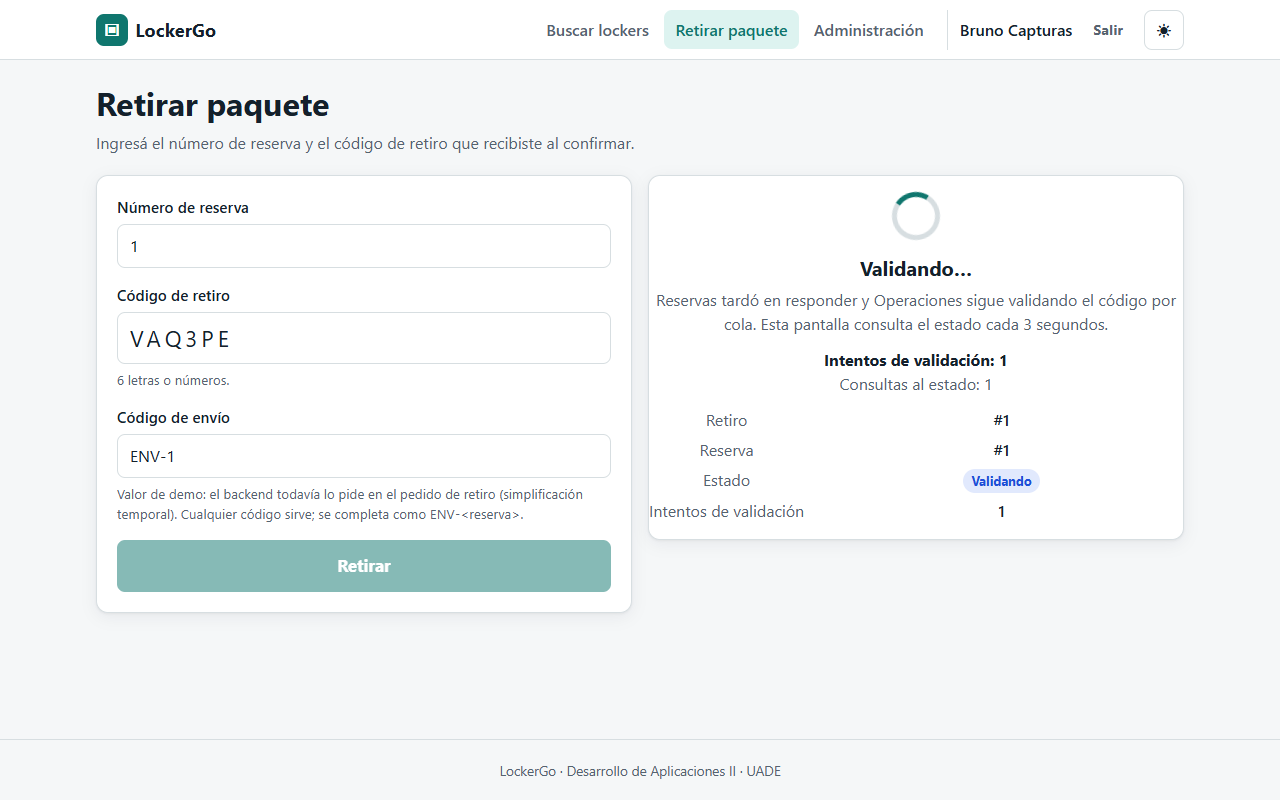
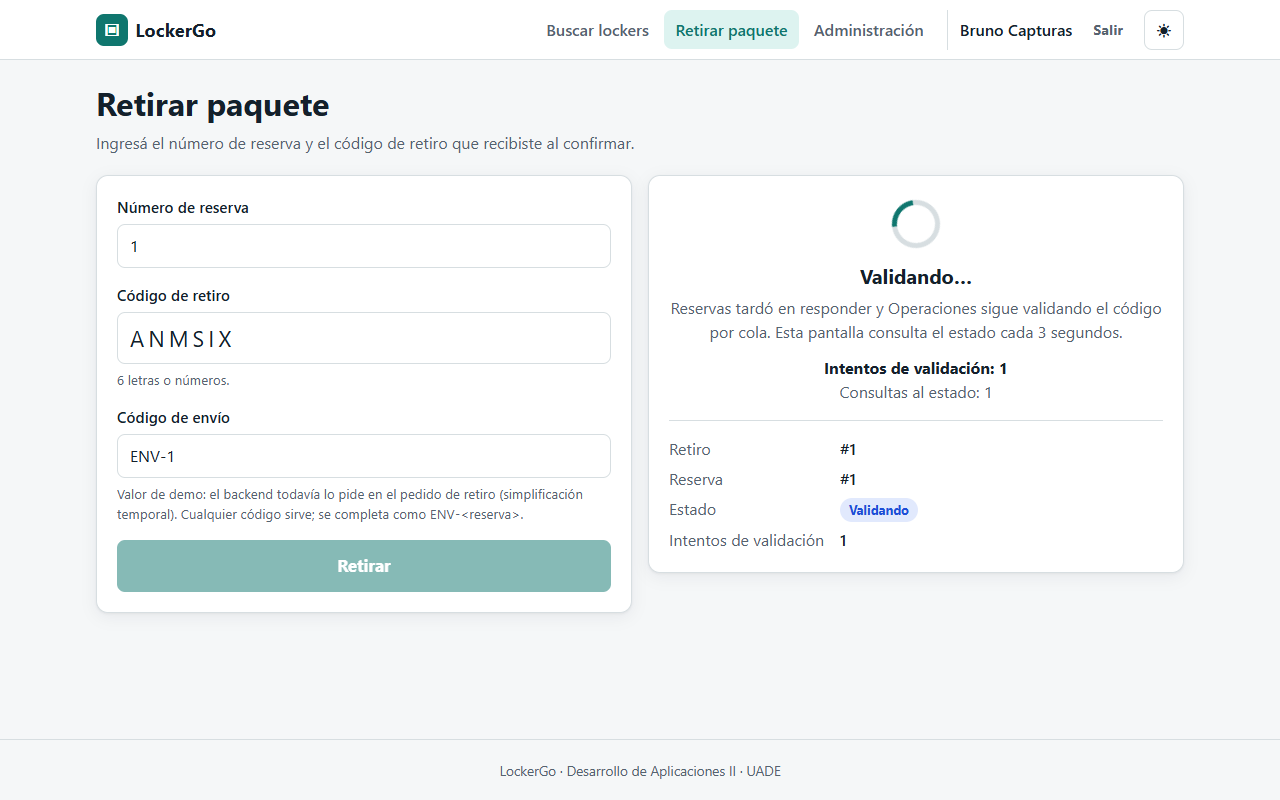
Validando: detalle alineado a la izquierda y con margen lateral
.validando pisaba el padding de la tarjeta (padding: 1rem 0) y el detalle
del retiro heredaba el centrado. Se recupera el padding lateral y el
detalle queda alineado a la izquierda, separado por un borde.
Captura 09 (1280 y 375 px) tomada de nuevo con Reservas lenta.

diff --git a/src/index.css b/src/index.css
@@ -967,7 +967,15 @@ details.detalle > summary {
 
 .validando {
   text-align: center;
-  padding: 1rem 0;
+  padding-top: 1.5rem;
+}
+
+/* El detalle del retiro no hereda el centrado del estado "Validando…". */
+.validando .datos {
+  text-align: left;
+  margin-top: 1rem;
+  padding-top: 1rem;
+  border-top: 1px solid var(--borde);
 }
 
 .validando .spinner {
